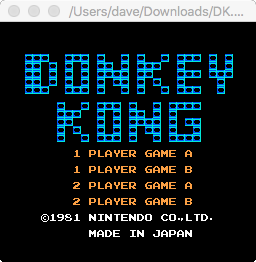
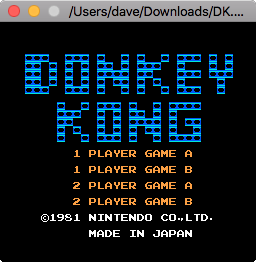
fixed off by one high tile byte bug

Changed region(s): [[0.0, 0.0, 1.0, 0.0916]]

diff --git a/Sources/DDPPU.c b/Sources/DDPPU.c
@@ -126,7 +126,14 @@ inline void ppu_step() {
                 case 0:
                     for (int i = 7; i >= 0; i--) {
                         temp_data <<= 4;
-                        temp_data |= ((low_tile_byte & (1 << i)) >> i) | ((high_tile_byte & (1 << i)) >> (i - 1)) | (attribute_table_byte );
+                        
+                        temp_data |= ((low_tile_byte & (1 << i)) >> i);
+                        if (i > 0) {
+                            temp_data |= ((high_tile_byte & (1 << i)) >> (i - 1));
+                        } else {
+                            temp_data |= ((high_tile_byte & (1 << i)) << 1);
+                        }
+                        temp_data |= attribute_table_byte;
                     }
                     tile_data |= temp_data;
                     if ((cycle >= 321 && cycle <= 336) || cycle <= 256) {

diff --git a/README.md b/README.md
@@ -1,5 +1,5 @@
 # DDNES
-This is a personal learning project for me that I don't expect to be especially useful to anyone else. As I have time, I'm implementing an NES emulator in C with SDL. I'm doing this through a combination of my own code, information from the guides at [nesdev.com](https://www.nesdev.com/), various bits and pieces of documentation all over the Web, and porting parts of (especially the PPU) [Michael Fogleman's excellent Go NES emulator](https://github.com/fogleman/nes). I'm not being a purist about this—I am looking at other people's code as I get stuck. Right now the 6502 CPU core seems to be working pretty well and the PPU (picture processing unit) can display basic backgrounds (although not quite correctly!).
+This is a personal learning project for me that I don't expect to be especially useful to anyone else. As I have time, I'm implementing an NES emulator in C with SDL. I'm doing this through a combination of my own code, information from the guides at [nesdev.com](https://www.nesdev.com/), various bits and pieces of documentation all over the Web, and porting parts of (especially the PPU) [Michael Fogleman's excellent Go NES emulator](https://github.com/fogleman/nes). I'm not being a purist about this—I am looking at other people's code as I get stuck. Right now the 6502 CPU core seems to be working pretty well and the PPU (picture processing unit) can display basic backgrounds.
 
 ![dk1](dk1.png) ![dk2](dk2.png)
 
@@ -19,7 +19,6 @@ Michael Fogleman's emulator that this is partially a port of (especially parts o
 - [X] Memory Map
 - [X] CPU Core
 - [X] Basic PPU Background Rendering
-- [ ] Correct Background Rendering
 - [ ] Sprites
 - [ ] Controller Support through keyboard
 - [ ] Playable Donkey Kong
